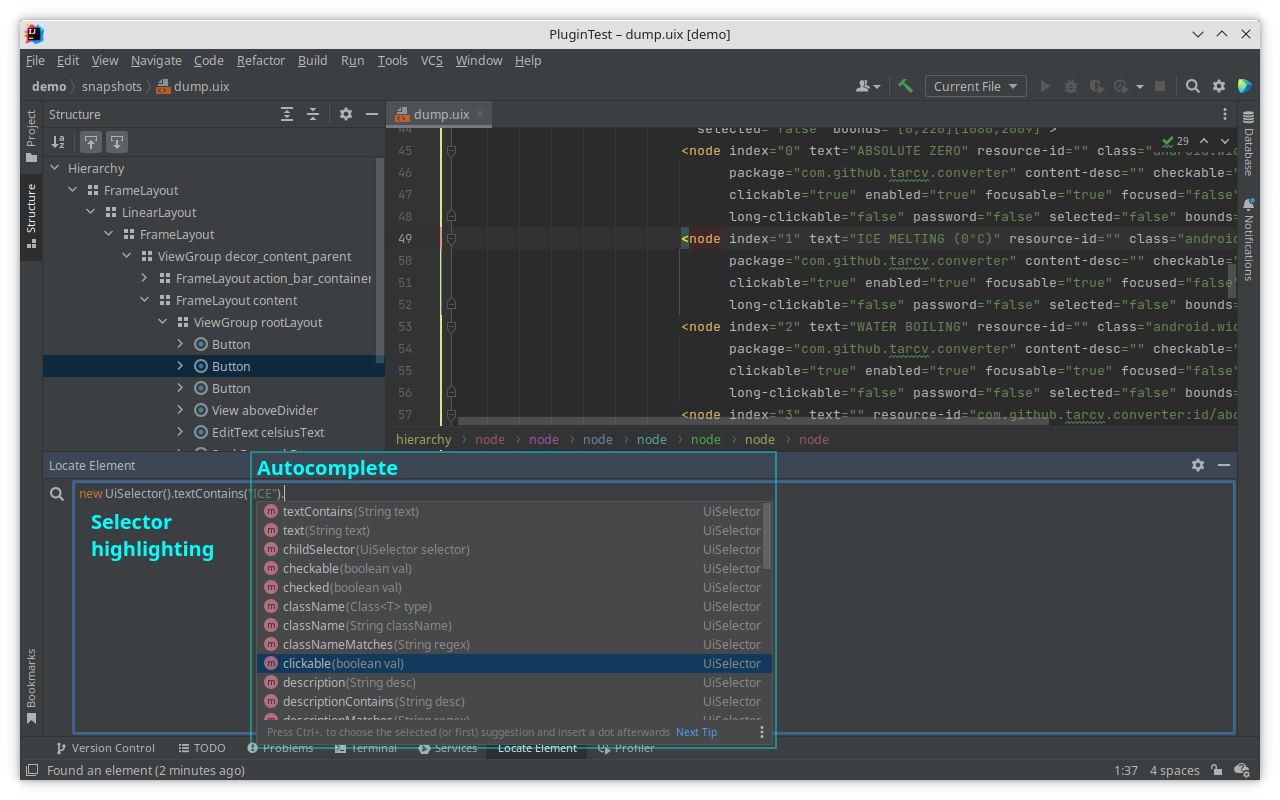
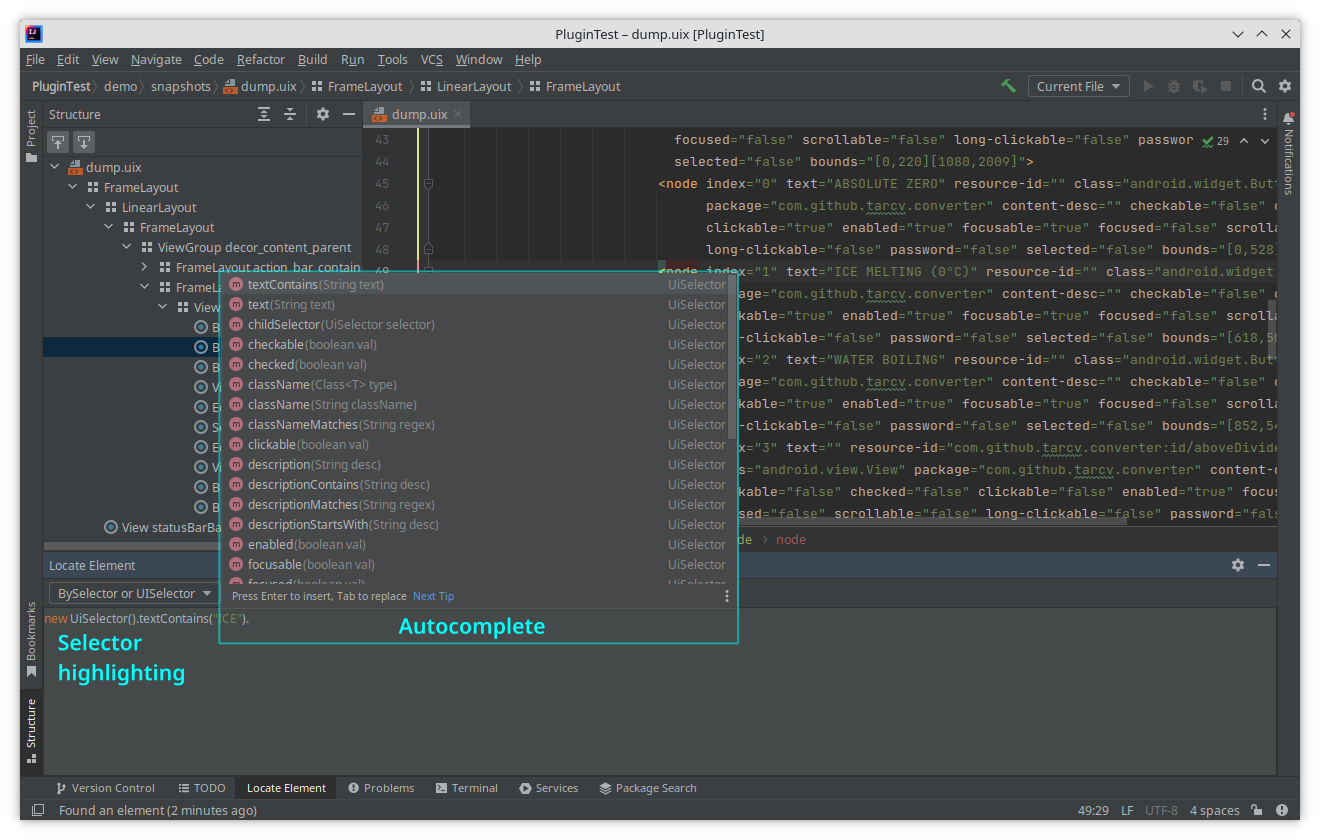
Update README

diff --git a/README.md b/README.md
@@ -10,18 +10,20 @@ UI Surveyor plugin provides features helping designing selectors for mobile auto
 They provide the following features:
 * **_Evaluating_ selectors against XML UI snapshots** <br />
   * UIAutomator UISelectors and BySelectors for Android
+    ![Search by UISelector](https://github.com/TarCV/surveyor-idea/raw/main/docs/Search.png)
   * (Experimental) WebDriverAgent/Appium class chain and predicate queries for iOS
-![Search](docs/Search.png)
+    ![Search by class chain](https://github.com/TarCV/surveyor-idea/raw/main/docs/SearchPredicate.png)
 * **Syntax highlighting and autocomplete for element selectors (UIAutomator selectors in Java IDEs only)** <br />
-![Autocomplete & Highlighting](docs/Autocomplete.png)
+![Autocomplete & Highlighting](https://github.com/TarCV/surveyor-idea/raw/main/docs/Autocomplete.png)
 * **Improved structure navigation for XML UI snapshots** <br />
   **Note:** When using with an old IDE or Kotlin plugin, navigation bar display might be broken - XML tag names
   displayed without any UI element identifiers or texts (e.g. just `node` instead of `Button "ZERO"`). This is a known
   issue that can be fixed by updating your Kotlin plugin and/or IDE (please see [KTIJ-27484](https://youtrack.jetbrains.com/issue/KTIJ-27484/) for details).<br />
-![Structure navigation](docs/StructureNavigation.png)
+  ![Structure navigation](https://github.com/TarCV/surveyor-idea/raw/main/docs/StructureNavigation.png)
+  ![Structure navigation](https://github.com/TarCV/surveyor-idea/raw/main/docs/StructurePredicate.png)
 
 If for some reason `Locate Element` tool window is not enabled, you can open it from the View menu: <br />
-![View &gt; Tool windows &gt; Locate Element](docs/MenuLocation.png)
+![View &gt; Tool windows &gt; Locate Element](https://github.com/TarCV/surveyor-idea/raw/main/docs/MenuLocation.png)
 
 All trademarks are the property of their respective owners. All company, product and service names
 used in this plugin description are for identification purposes only. Use of these names or brands does not imply endorsement.
